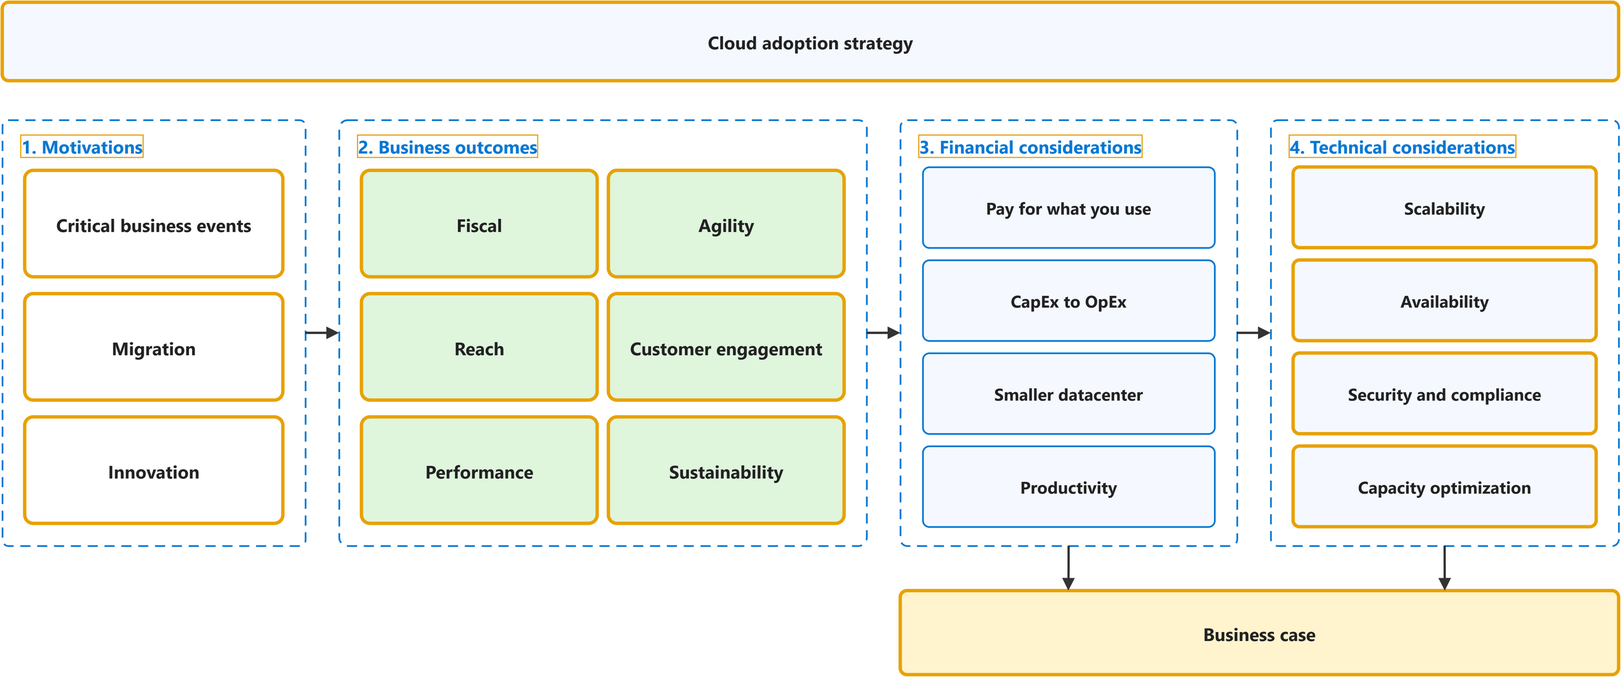
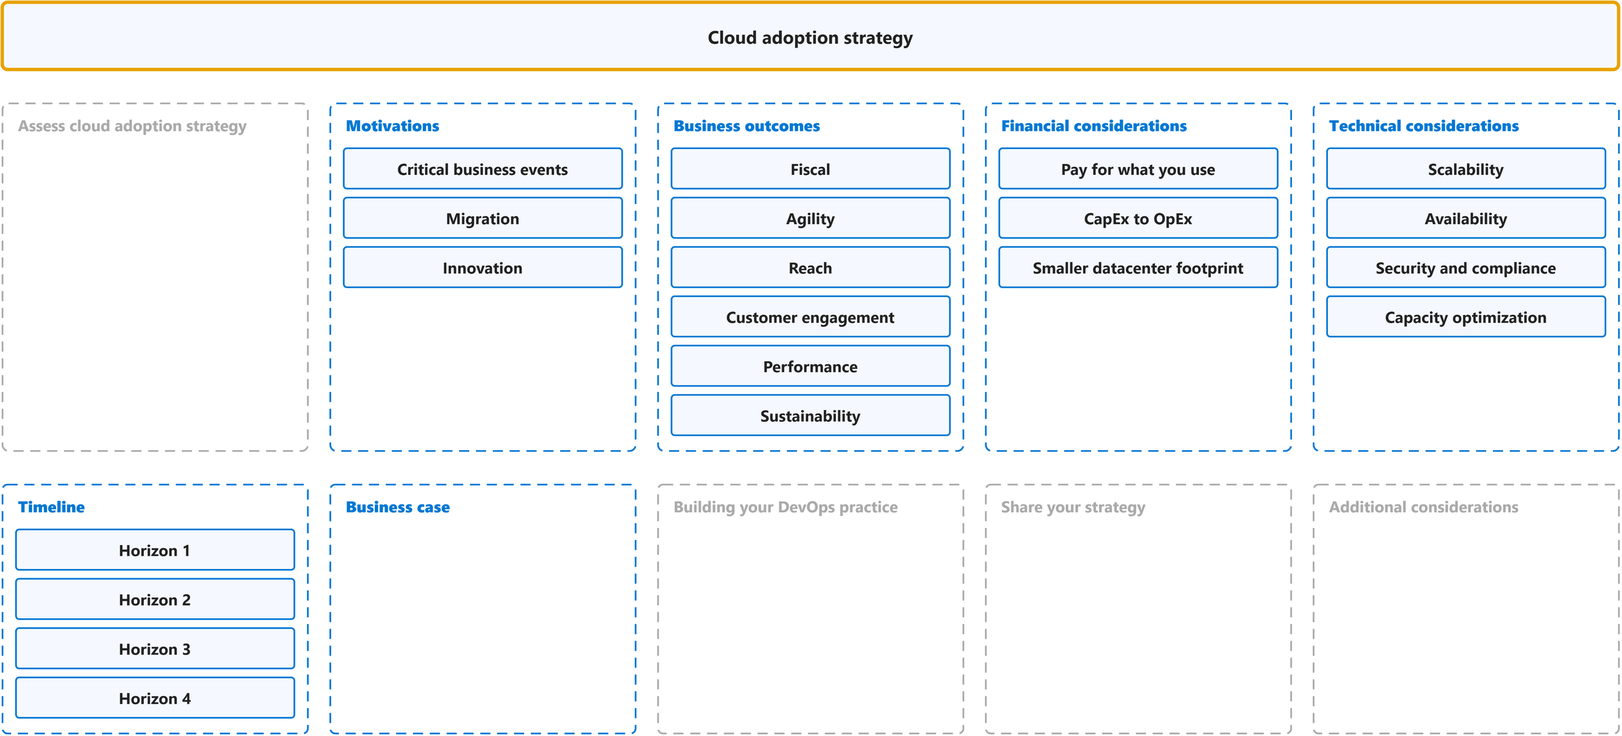
feat(cst8913): CAF page lists every 2022 section per phase, with a figure for each phase and for Migrate; Strategy split into its sections; landing zones redrawn flat

diff --git a/docs/cloud-courses/cst8913/lectures/cloud-adoption-framework-for-azure.md b/docs/cloud-courses/cst8913/lectures/cloud-adoption-framework-for-azure.md
@@ -35,10 +35,28 @@ Study notes on [Microsoft Learn documentation set](https://learn.microsoft.com/e
 | Term | Definition | 中文翻译 | Source |
 |---|---|---|---|
 | **cloud adoption strategy**<br>云采用策略 | "A **cloud adoption strategy** directs how your business adopts cloud technology. It connects **executive intent** to **measurable outcomes** and sets the **standards** that every workload team operates within." | **云采用策略**指导你的企业如何采用云技术。它将**高管意图**与**可衡量的成果**联系起来，并设定每个工作负载团队在其中运作的**标准**。 | [Microsoft, n.d., para. 1](https://learn.microsoft.com/en-us/azure/cloud-adoption-framework/strategy/#:~:text=A%20cloud%20adoption%20strategy%20directs%20how%20your%20business%20adopts) |
+
+### Assess cloud adoption strategy
+
+To be added.
+
+### [Motivations](https://github.com/MicrosoftDocs/cloud-adoption-framework/blob/a5351162040659171fbb4f5674ce36ac9259deb3/docs/strategy/motivations.md)
+
+![Diagram: Motivations](media/cloud-adoption-framework-for-azure-8.png)
+
+| Term | Definition | 中文翻译 | Source |
+|---|---|---|---|
 | **motivation**<br>动机 | "Various **motivations** can drive **business transformations** that are supported by cloud adoption. Several motivations likely apply **at the same time**." | 各种**动机**可以推动由云采用所支持的**业务转型**。可能**同时**有多个动机适用。 | [Microsoft, 2022, October 18, "Motivations" section, para. 1](https://github.com/MicrosoftDocs/cloud-adoption-framework/blob/a5351162040659171fbb4f5674ce36ac9259deb3/docs/strategy/motivations.md#motivations:~:text=Various%20motivations%20can%20drive%20business%20transformations%20that%20are) |
 | **critical business event**<br>关键业务事件 | "When responding to **critical business events** is the **highest priority**, it's important to get started with **migration** early, often in parallel with **strategy and planning efforts**." | 当应对**关键业务事件**是**最高优先级**时，务必尽早开始**迁移**，并且通常与**策略和规划工作**并行进行。 | [Microsoft, 2022, October 18, "Classify your motivations" section, para. 2](https://github.com/MicrosoftDocs/cloud-adoption-framework/blob/a5351162040659171fbb4f5674ce36ac9259deb3/docs/strategy/motivations.md#classify-your-motivations:~:text=When%20responding%20to%20critical%20business%20events%20is%20the%20highest) |
 | **migration motivation**<br>迁移动机 | "The **migration motivations** listed near the top of the **motivations table** are the **most common reasons** for adopting the cloud but not necessarily the **most significant**." | **迁移动机**列于**动机表**的顶部附近，它们是采用云的**最常见原因**，但不一定是**最重要**的原因。 | [Microsoft, 2022, October 18, "Migration" section, para. 1](https://github.com/MicrosoftDocs/cloud-adoption-framework/blob/a5351162040659171fbb4f5674ce36ac9259deb3/docs/strategy/motivations.md#migration:~:text=The%20migration%20motivations%20listed%20near%20the%20top%20of%20the) |
 | **innovation motivation**<br>创新动机 | "Data is the **new commodity**, and **modern applications** are the **supply chain** driving that data into various experiences. In today's business market, it's hard to find a **transformative product or service** that isn't built on top of data, insights, and customer experiences." | 数据是**新的商品**，而**现代应用程序**是将这些数据输送到各种体验中的**供应链**。在当今的商业市场中，很难找到不是建立在数据、见解和客户体验之上的**变革性产品或服务**。 | [Microsoft, 2022, October 18, "Innovation" section, para. 1](https://github.com/MicrosoftDocs/cloud-adoption-framework/blob/a5351162040659171fbb4f5674ce36ac9259deb3/docs/strategy/motivations.md#innovation:~:text=Data%20is%20the%20new%20commodity%2C%20and%20modern%20applications%20are) |
+
+### [Business outcomes](https://github.com/MicrosoftDocs/cloud-adoption-framework/blob/a5351162040659171fbb4f5674ce36ac9259deb3/docs/strategy/business-outcomes/index.md)
+
+![Diagram: Business outcomes](media/cloud-adoption-framework-for-azure-9.png)
+
+| Term | Definition | 中文翻译 | Source |
+|---|---|---|---|
 | **business outcome**<br>业务成果 | "This article series is designed to help customers identify **business outcomes** that are **concise, defined**, and drive **observable results** or change in business performance, supported by a **specific measure**." | 本系列文章旨在帮助客户确定**业务成果**，这些成果应**简洁、明确**，并能推动**可观察的结果**或业务绩效的变化，且有**具体的衡量指标**作为支撑。 | [Microsoft, 2022, October 18, para. 1](https://github.com/MicrosoftDocs/cloud-adoption-framework/blob/a5351162040659171fbb4f5674ce36ac9259deb3/docs/strategy/business-outcomes/index.md#:~:text=This%20article%20series%20is%20designed%20to%20help%20customers%20identify) |
 | **fiscal outcome**<br>财务成果 | "**Financial or fiscal performance** is the **cleanest business outcome** for many business leaders, but **not the only one**." | 对于许多业务领导者来说，**财务或财政绩效**是**最清晰的业务成果**，但并**不是唯一的**成果。 | [Microsoft, 2022, October 18, "Fiscal outcomes" section, para. 1](https://github.com/MicrosoftDocs/cloud-adoption-framework/blob/a5351162040659171fbb4f5674ce36ac9259deb3/docs/strategy/business-outcomes/index.md#fiscal-outcomes:~:text=Financial%20or%20fiscal%20performance%20is%20the%20cleanest%20business%20outcome) |
 | **agility outcome**<br>敏捷成果 | "Today's **fast-changing business environment** places a **premium on time**. The ability to respond to and **drive market change** quickly is the fundamental measure of **business agility**." | 当今**快速变化的商业环境**非常**重视时间**。快速响应并**推动市场变化**的能力，是衡量**业务敏捷性**的基本指标。 | [Microsoft, 2022, October 18, "Agility outcomes" section, para. 1](https://github.com/MicrosoftDocs/cloud-adoption-framework/blob/a5351162040659171fbb4f5674ce36ac9259deb3/docs/strategy/business-outcomes/index.md#agility-outcomes:~:text=Today%27s%20fast%2Dchanging%20business%20environment%20places%20a%20premium%20on%20time) |
@@ -46,13 +64,26 @@ Study notes on [Microsoft Learn documentation set](https://learn.microsoft.com/e
 | **customer engagement outcome**<br>客户互动成果 | "**Social marketplaces** are redefining **winners and losers** at an unheard-of pace. Responding to **user needs** is a key measure of **customer engagement**." | **社交市场**正以前所未有的速度重新定义**赢家和输家**。响应**用户需求**是衡量**客户互动**的关键指标。 | [Microsoft, 2022, October 18, "Customer engagement outcomes" section, para. 1](https://github.com/MicrosoftDocs/cloud-adoption-framework/blob/a5351162040659171fbb4f5674ce36ac9259deb3/docs/strategy/business-outcomes/index.md#customer-engagement-outcomes:~:text=Social%20marketplaces%20are%20redefining%20winners%20and%20losers%20at%20an) |
 | **performance outcome**<br>性能成果 | "**Performance and reliability** are **assumed**. When either falters, **reputation damage** can be painful and **long-lasting**." | **性能和可靠性**被视为**理所当然**。当其中任何一个出现问题时，**声誉损害**可能是痛苦且**长期**的。 | [Microsoft, 2022, October 18, "Performance outcomes" section, para. 1](https://github.com/MicrosoftDocs/cloud-adoption-framework/blob/a5351162040659171fbb4f5674ce36ac9259deb3/docs/strategy/business-outcomes/index.md#performance-outcomes:~:text=Performance%20and%20reliability%20are%20assumed) |
 | **sustainability outcome**<br>可持续性成果 | "**Environmental sustainability** is quickly moving from a "nice to have" function of **Corporate Social Responsibility (CSR**) to a **centerpiece of business strategy**, increasingly **embedded** into everything a company does." | **环境可持续性**正迅速从**企业社会责任（CSR**）中的“锦上添花”功能，转变为**业务战略的核心**，并日益**融入**公司所做的一切。 | [Microsoft, 2022, October 18, "Sustainability outcomes" section, para. 1](https://github.com/MicrosoftDocs/cloud-adoption-framework/blob/a5351162040659171fbb4f5674ce36ac9259deb3/docs/strategy/business-outcomes/index.md#sustainability-outcomes:~:text=Environmental%20sustainability%20is%20quickly%20moving%20from%20a) |
+
+### [Financial considerations](https://github.com/MicrosoftDocs/cloud-adoption-framework/blob/a5351162040659171fbb4f5674ce36ac9259deb3/docs/strategy/financial-considerations/index.md)
+
+![Diagram: Financial considerations](media/cloud-adoption-framework-for-azure-10.png)
+
+| Term | Definition | 中文翻译 | Source |
+|---|---|---|---|
 | **financial considerations**<br>财务考量 | "A **digital transformation** goes hand-in-hand with a **financial transformation**. When you're making the shift to the cloud, there are **financial considerations** around how the cloud will impact your **financial position**, accounting KPIs, and processes..." | **数字化转型**与**财务转型**相辅相成。当你向云转变时，存在一些**财务考量**，涉及云将如何影响你的**财务状况**、会计 KPI 和流程…… | [Microsoft, 2022, October 18, para. 1](https://github.com/MicrosoftDocs/cloud-adoption-framework/blob/a5351162040659171fbb4f5674ce36ac9259deb3/docs/strategy/financial-considerations/index.md#:~:text=A%20digital%20transformation%20goes%20hand%2Din%2Dhand%20with%20a%20financial%20transformation) |
+
+### [Technical considerations](https://github.com/MicrosoftDocs/cloud-adoption-framework/blob/a5351162040659171fbb4f5674ce36ac9259deb3/docs/strategy/technical-considerations/index.md)
+
+![Diagram: Technical considerations](media/cloud-adoption-framework-for-azure-11.png)
+
+| Term | Definition | 中文翻译 | Source |
+|---|---|---|---|
 | **technical considerations**<br>技术考量 | "When you're making the **shift to the cloud**, there are **technical considerations** around how it will help improve how you **manage and maintain** your cloud and workloads." | 当你**向云转变**时，存在一些**技术考量**，涉及它将如何帮助你改进对云和工作负载的**管理与维护**方式。 | [Microsoft, 2022, October 18, para. 1](https://github.com/MicrosoftDocs/cloud-adoption-framework/blob/a5351162040659171fbb4f5674ce36ac9259deb3/docs/strategy/technical-considerations/index.md#:~:text=When%20you%27re%20making%20the%20shift%20to%20the%20cloud%2C%20there) |
 | **scalability**<br>可扩展性 | "**Scalability**, or the ability to **scale out your resources** depending on usage, utilization, and demand, is one of the **foremost technical benefits** of moving to the cloud." | **可扩展性**，即根据使用情况、利用率和需求**横向扩展你的资源**的能力，是迁移到云的**首要技术优势**之一。 | [Microsoft, 2022, October 18, "Scalability" section, para. 1](https://github.com/MicrosoftDocs/cloud-adoption-framework/blob/a5351162040659171fbb4f5674ce36ac9259deb3/docs/strategy/technical-considerations/index.md#scalability:~:text=Scalability%2C%20or%20the%20ability%20to%20scale%20out%20your%20resources%20depending) |
 | **high availability**<br>高可用性 | "**On-premises**, it's more costly to build **highly available infrastructure**. It's **less costly** to architect highly available infrastructure in the cloud." | **在本地**，构建**高可用基础结构**的成本更高。在云中设计高可用基础结构的**成本更低**。 | [Microsoft, 2022, October 18, "Availability" section, para. 1](https://github.com/MicrosoftDocs/cloud-adoption-framework/blob/a5351162040659171fbb4f5674ce36ac9259deb3/docs/strategy/technical-considerations/index.md#availability:~:text=On%2Dpremises%2C%20it%27s%20more%20costly%20to%20build%20highly%20available%20infrastructure) |
 | **security and compliance**<br>安全与合规 | "When it comes to **security and compliance**, Microsoft is continually expanding our **security infrastructure and toolsets** to **keep you on par** with what's transpiring with respect to **security threats on global networks**." | 在**安全与合规**方面，Microsoft 正在不断扩展我们的**安全基础结构和工具集**，让你能够**跟上****全球网络上安全威胁**的动态。 | [Microsoft, 2022, October 18, "Security and compliance" section, para. 1](https://github.com/MicrosoftDocs/cloud-adoption-framework/blob/a5351162040659171fbb4f5674ce36ac9259deb3/docs/strategy/technical-considerations/index.md#security-and-compliance:~:text=When%20it%20comes%20to%20security%20and%20compliance%2C%20Microsoft%20is) |
 | **capacity optimization**<br>容量优化 | "**Capacity optimization**, where you **only pay** for the **resources you utilize** over time, is **another technical benefit** of the cloud." | **容量优化**，即你**只需**为一段时间内**实际使用的资源**付费，是云的**另一项技术优势**。 | [Microsoft, 2022, October 18, "Capacity optimization" section, para. 1](https://github.com/MicrosoftDocs/cloud-adoption-framework/blob/a5351162040659171fbb4f5674ce36ac9259deb3/docs/strategy/technical-considerations/index.md#capacity-optimization:~:text=Capacity%20optimization%2C%20where%20you%20only%20pay%20for%20the) |
-| **business case**<br>商业论证 | "A **business case** provides a view of the **technical and financial timeline** of your environment. Developing a business case includes building a **financial plan** that takes technical considerations into account and aligns with **business outcomes**." | **商业论证**提供了你环境的**技术和财务时间线**视图。制定商业论证包括构建一份**财务计划**，该计划考虑技术考量并与**业务成果**保持一致。 | [Microsoft, 2022, August 5, para. 3](https://github.com/MicrosoftDocs/cloud-adoption-framework/blob/a5351162040659171fbb4f5674ce36ac9259deb3/docs/strategy/cloud-migration-business-case.md#:~:text=A%20business%20case%20provides%20a%20view%20of%20the%20technical) |
 
 ### [Timeline](https://github.com/MicrosoftDocs/cloud-adoption-framework/blob/a5351162040659171fbb4f5674ce36ac9259deb3/docs/strategy/digital-transformation-timeline.md)
 
@@ -66,7 +97,29 @@ Study notes on [Microsoft Learn documentation set](https://learn.microsoft.com/e
 | **Horizon 3 advanced modernization**<br>视野 3：深度现代化 | "With **post-migration** and **operational improvements**, the team will have **sufficient data and cloud skills** to perform **deeper modernization** of complex architectures." | 借助**迁移后**的改进和**运营改进**，团队将拥有**足够的数据和云技能**，对复杂架构执行**更深入的现代化**。 | [Microsoft, 2021, May 1, "Example of a cloud adoption plan with four horizons" section, table, row 3, Objective](https://github.com/MicrosoftDocs/cloud-adoption-framework/blob/a5351162040659171fbb4f5674ce36ac9259deb3/docs/strategy/digital-transformation-timeline.md#example-of-a-cloud-adoption-plan-with-four-horizons:~:text=With%20post%2Dmigration%20and%20operational%20improvements%2C%20the%20team%20will%20have) |
 | **Horizon 4 innovation and growth**<br>视野 4：创新与增长 | "Redirect capital reduction from **datacenter exits** and **new skills** in central IT to focus on **accelerating continued innovation**." | 将**退出数据中心**带来的资本削减和中央 IT 部门的**新技能**重新调配，以专注于**加速持续创新**。 | [Microsoft, 2021, May 1, "Example of a cloud adoption plan with four horizons" section, table, row 4, Objective](https://github.com/MicrosoftDocs/cloud-adoption-framework/blob/a5351162040659171fbb4f5674ce36ac9259deb3/docs/strategy/digital-transformation-timeline.md#example-of-a-cloud-adoption-plan-with-four-horizons:~:text=Redirect%20capital%20reduction%20from%20datacenter%20exits%20and%20new%20skills%20in) |
 
-## Plan
+### [Business case](https://github.com/MicrosoftDocs/cloud-adoption-framework/blob/a5351162040659171fbb4f5674ce36ac9259deb3/docs/strategy/cloud-migration-business-case.md)
+
+![Diagram: Business case](media/cloud-adoption-framework-for-azure-12.png)
+
+| Term | Definition | 中文翻译 | Source |
+|---|---|---|---|
+| **business case**<br>商业论证 | "A **business case** provides a view of the **technical and financial timeline** of your environment. Developing a business case includes building a **financial plan** that takes technical considerations into account and aligns with **business outcomes**." | **商业论证**提供了你环境的**技术和财务时间线**视图。制定商业论证包括构建一份**财务计划**，该计划考虑技术考量并与**业务成果**保持一致。 | [Microsoft, 2022, August 5, para. 3](https://github.com/MicrosoftDocs/cloud-adoption-framework/blob/a5351162040659171fbb4f5674ce36ac9259deb3/docs/strategy/cloud-migration-business-case.md#:~:text=A%20business%20case%20provides%20a%20view%20of%20the%20technical) |
+
+### Building your DevOps practice
+
+To be added.
+
+### Share your strategy
+
+To be added.
+
+### Additional considerations
+
+To be added.
+
+## [Plan](https://github.com/MicrosoftDocs/cloud-adoption-framework/blob/a5351162040659171fbb4f5674ce36ac9259deb3/docs/plan/index.md)
+
+![Diagram: Plan](media/cloud-adoption-framework-for-azure-14.png)
 
 ### [Rationalization](https://github.com/MicrosoftDocs/cloud-adoption-framework/blob/e29e30c4ebd52d8446d00f5dfdee5742328c2c11/docs/digital-estate/5-rs-of-rationalization.md)
 
@@ -114,7 +167,37 @@ Study notes on [Microsoft Learn documentation set](https://learn.microsoft.com/e
 | **cloud adoption team**<br>云采用团队 | "The nucleus of all **cloud adoption efforts** is the **cloud adoption team**. This team drives the **technical changes** that enable adoption." | 所有**云采用工作**的核心是**云采用团队**。该团队推动实现采用的**技术变革**。 | [Microsoft, n.d., "Cloud adoption team only" section, para. 1](https://learn.microsoft.com/en-us/azure/cloud-adoption-framework/organize/organization-structures#cloud-adoption-team-only:~:text=The%20nucleus%20of%20all%20cloud%20adoption%20efforts%20is%20the) |
 | **cloud governance team**<br>云治理团队 | "...a **cloud governance team** is dedicated to ensuring **excellence** in the solutions that are adopted. The cloud governance team is **accountable** for **platform maturity**, platform operations, governance, and automation." | ……**云治理团队**致力于确保所采用解决方案的**卓越**品质。云治理团队**负责****平台成熟度**、平台运维、治理和自动化。 | [Microsoft, n.d., "Best practice: minimum viable product (MVP)" section, bullet 2](https://learn.microsoft.com/en-us/azure/cloud-adoption-framework/organize/organization-structures#best-practice-minimum-viable-product-mvp:~:text=Cloud%20governance%20team%3A%20To%20balance%20the%20cloud%20adoption%20team) |
 
-## Ready
+### Skills readiness plan
+
+To be added.
+
+### Cloud adoption plan
+
+To be added.
+
+### Best practices
+
+To be added.
+
+### Strategic Migration Assessment and Readiness Tool (SMART)
+
+To be added.
+
+### Sustainability considerations
+
+To be added.
+
+## [Ready](https://github.com/MicrosoftDocs/cloud-adoption-framework/blob/a5351162040659171fbb4f5674ce36ac9259deb3/docs/ready/index.md)
+
+![Diagram: Ready](media/cloud-adoption-framework-for-azure-15.png)
+
+### Azure setup guide
+
+To be added.
+
+### Operating model
+
+To be added.
 
 ### [Landing zones](https://learn.microsoft.com/en-us/azure/cloud-adoption-framework/ready/landing-zone/)
 
@@ -124,18 +207,30 @@ Study notes on [Microsoft Learn documentation set](https://learn.microsoft.com/e
 |---|---|---|---|
 | **landing zone**<br>落地区 | "An **Azure landing zone** is a proven and flexible **architecture** for governing, securing, and scaling a **multi-subscription Azure environment**." | **Azure 落地区**是一种经过验证且灵活的**架构**，用于治理、保护和扩展**多订阅 Azure 环境**。 | [Microsoft, n.d., para. 1, sentence 2](https://learn.microsoft.com/en-us/azure/cloud-adoption-framework/ready/landing-zone/#:~:text=An%20Azure%20landing%20zone%20is%20a%20proven%20and%20flexible%20architecture) |
 | **platform landing zone**<br>平台落地区 | "The **centralized foundation** that establishes **governance**, security, and **shared resources** for all your Azure workloads." | **集中式基础**，为所有 Azure 工作负载建立**治理**、安全和**共享资源**。 | [Microsoft, n.d., bullet 1](https://learn.microsoft.com/en-us/azure/cloud-adoption-framework/ready/landing-zone/#:~:text=The%20centralized%20foundation%20that%20establishes%20governance%2C%20security%2C%20and%20shared) |
-| **management group hierarchy**<br>管理组层级 | "The **management group hierarchy** provides the **governance structure** for the Azure environment. It organizes all of your **Azure subscriptions** and applies **governance standards** to those subscriptions." | **管理组层级**为 Azure 环境提供**治理结构**。它组织你的所有 **Azure 订阅**，并对这些订阅应用**治理标准**。 | [Microsoft, n.d., "Platform landing zone" section, bullet 1](https://learn.microsoft.com/en-us/azure/cloud-adoption-framework/ready/landing-zone/#platform-landing-zone:~:text=The%20management%20group%20hierarchy%20provides%20the%20governance%20structure%20for%20the) |
 | **workload landing zone**<br>工作负载落地区 | "The environments where **workload teams** **deploy and operate** **workload resources** within the guardrails of the **platform landing zone**." | **工作负载团队**在其中**部署和运营****工作负载资源**的环境，位于**平台落地区**的护栏之内。 | [Microsoft, n.d., bullet 2](https://learn.microsoft.com/en-us/azure/cloud-adoption-framework/ready/landing-zone/#:~:text=The%20environments%20where%20workload%20teams%20deploy%20and%20operate%20workload%20resources) |
+| **management group hierarchy**<br>管理组层级 | "The **management group hierarchy** provides the **governance structure** for the Azure environment. It organizes all of your **Azure subscriptions** and applies **governance standards** to those subscriptions." | **管理组层级**为 Azure 环境提供**治理结构**。它组织你的所有 **Azure 订阅**，并对这些订阅应用**治理标准**。 | [Microsoft, n.d., "Platform landing zone" section, bullet 1](https://learn.microsoft.com/en-us/azure/cloud-adoption-framework/ready/landing-zone/#platform-landing-zone:~:text=The%20management%20group%20hierarchy%20provides%20the%20governance%20structure%20for%20the) |
 | **subscription**<br>订阅 | "In Azure, **subscriptions** are a **unit of management, billing, and scale**. Subscriptions let you organize **resource groups** and **control billing separately from access**." | 在 Azure 中，**订阅**是**管理、计费和缩放的单位**。订阅让你能够组织**资源组**，并**将计费与访问分开控制**。 | [Microsoft, n.d., "Azure subscriptions" section, para. 1](https://learn.microsoft.com/en-us/training/modules/describe-core-architectural-components-of-azure/6-describe-azure-management-infrastructure#azure-subscriptions:~:text=In%20Azure%2C%20subscriptions%20are%20a%20unit%20of%20management%2C%20billing) |
 | **management**<br>管理（运维） | "This **design area** establishes a **foundation for operations management** across your Azure, hybrid, or **multicloud environments**." | 此**设计领域****为运营管理奠定基础**，范围涵盖你的 Azure、混合或**多云环境**。 | [Microsoft, n.d., para. 1](https://learn.microsoft.com/en-us/azure/cloud-adoption-framework/ready/landing-zone/design-area/management#:~:text=This%20design%20area%20establishes%20a%20foundation%20for%20operations%20management) |
 | **governance**<br>治理 | "Use **Azure governance** to establish the **tooling** that you need to support cloud governance, **compliance auditing**, and **automated guardrails**." | 使用 **Azure 治理**来建立所需的**工具**，以支持云治理、**合规性审核**和**自动化防护措施**。 | [Microsoft, n.d., para. 1](https://learn.microsoft.com/en-us/azure/cloud-adoption-framework/ready/landing-zone/design-area/governance#:~:text=Use%20Azure%20governance%20to%20establish%20the%20tooling%20that%20you) |
 | **accelerator**<br>加速器 | "Microsoft-provided **accelerators** for both **platform landing zone** and workload landing zone scenarios use **infrastructure as code** to deploy **Azure environments** based on recommended practices." | Microsoft 提供的**加速器**适用于**平台落地区**和工作负载落地区两种场景，它们使用**基础结构即代码**来部署 **Azure 环境**，所依据的是建议做法。 | [Microsoft, n.d., bullet 3](https://learn.microsoft.com/en-us/azure/cloud-adoption-framework/ready/landing-zone/#:~:text=Microsoft%2Dprovided%20accelerators%20for%20both%20platform%20landing%20zone%20and%20workload) |
 
-## Adopt
+## [Adopt](https://github.com/MicrosoftDocs/cloud-adoption-framework/blob/a5351162040659171fbb4f5674ce36ac9259deb3/docs/adopt/index.md)
 
-### Migrate
+![Diagram: Adopt](media/cloud-adoption-framework-for-azure-13.png)
 
-To be added. For now, see [What is Azure Migrate?](what-is-azure-migrate.md).
+### Cloud adoption journey
+
+To be added.
+
+### Migrate or modernize first?
+
+To be added.
+
+### [Migrate](https://github.com/MicrosoftDocs/cloud-adoption-framework/blob/a5351162040659171fbb4f5674ce36ac9259deb3/docs/migrate/index.md)
+
+![Diagram: Migrate](media/cloud-adoption-framework-for-azure-17.png)
+
+See also [What is Azure Migrate?](what-is-azure-migrate.md).
 
 ### Modernize
 
@@ -145,7 +240,13 @@ To be added.
 
 To be added.
 
-## Ongoing
+### Relocate
+
+To be added.
+
+## [Ongoing](https://github.com/MicrosoftDocs/cloud-adoption-framework/blob/a5351162040659171fbb4f5674ce36ac9259deb3/docs/overview.md)
+
+![Diagram: Ongoing](media/cloud-adoption-framework-for-azure-16.png)
 
 ### Govern
 

diff --git a/docs/cloud-courses/cst8913/index.md b/docs/cloud-courses/cst8913/index.md
@@ -16,11 +16,11 @@ Every week fits one stage of the Cloud Adoption Framework journey: strategy, pla
 
 | Stage | Lecture sections | Labs |
 |---|---|---|
-| The whole journey | [5. Overview](lectures/cloud-adoption-framework-for-azure.md#overview) | None |
-| 1. Strategy: why move | [5. Strategy](lectures/cloud-adoption-framework-for-azure.md#strategy)<br>[5. Timeline](lectures/cloud-adoption-framework-for-azure.md#timeline) | [Levi Strauss & Co. migration case study (lab 2)](labs/levi-strauss-co-migration-case-study.md) |
-| 2. Plan: what to move, how | [5. Rationalization](lectures/cloud-adoption-framework-for-azure.md#rationalization)<br>[5. Migration strategies](lectures/cloud-adoption-framework-for-azure.md#migration-strategies)<br>[5. Team responsibilities](lectures/cloud-adoption-framework-for-azure.md#team-responsibilities)<br>[6. Decide, plan, execute](lectures/what-is-azure-migrate.md#decide-plan-execute)<br>[8. Evaluate the digital estate](lectures/prepare-for-cloud-adoption-with-a-data-driven-plan.md#evaluate-the-digital-estate)<br>[8. Readiness and suitability analysis](lectures/prepare-for-cloud-adoption-with-a-data-driven-plan.md#readiness-and-suitability-analysis)<br>[8. Prioritize workloads and finalize the migration plan](lectures/prepare-for-cloud-adoption-with-a-data-driven-plan.md#prioritize-workloads-and-finalize-the-migration-plan) | [Levi Strauss & Co. migration case study (lab 2)](labs/levi-strauss-co-migration-case-study.md)<br>[Discovery and assessment (lab 4)](labs/discovery-and-assessment.md) |
-| 3. Ready: target environment | [5. Landing zones](lectures/cloud-adoption-framework-for-azure.md#landing-zones)<br>[7. Architecture](lectures/windows-n-tier-application-on-azure.md#architecture)<br>[7. Networking and load balancing](lectures/windows-n-tier-application-on-azure.md#networking-and-load-balancing)<br>[7. Availability](lectures/windows-n-tier-application-on-azure.md#availability) | [IaaS and PaaS architecture (lab 3)](labs/iaas-and-paas-architecture.md) |
-| 4. Migrate: rehost | [9. Rehost](lectures/overview-of-application-migration-examples-for-azure.md#rehost)<br>[10. Private clouds, clusters and hosts](lectures/what-is-azure-vmware-solution.md#private-clouds-clusters-and-hosts) | [Rehosting to Azure (lab 5)](labs/rehosting-to-azure.md) |
+| The whole journey | [5. Overview](lectures/cloud-adoption-framework-for-azure.md#overview)<br>[5. Ongoing](lectures/cloud-adoption-framework-for-azure.md#ongoing) | None |
+| 1. Strategy: why move | [5. Strategy](lectures/cloud-adoption-framework-for-azure.md#strategy)<br>[5. Motivations](lectures/cloud-adoption-framework-for-azure.md#motivations)<br>[5. Business outcomes](lectures/cloud-adoption-framework-for-azure.md#business-outcomes)<br>[5. Financial considerations](lectures/cloud-adoption-framework-for-azure.md#financial-considerations)<br>[5. Technical considerations](lectures/cloud-adoption-framework-for-azure.md#technical-considerations)<br>[5. Timeline](lectures/cloud-adoption-framework-for-azure.md#timeline)<br>[5. Business case](lectures/cloud-adoption-framework-for-azure.md#business-case) | [Levi Strauss & Co. migration case study (lab 2)](labs/levi-strauss-co-migration-case-study.md) |
+| 2. Plan: what to move, how | [5. Plan](lectures/cloud-adoption-framework-for-azure.md#plan)<br>[5. Rationalization](lectures/cloud-adoption-framework-for-azure.md#rationalization)<br>[5. Migration strategies](lectures/cloud-adoption-framework-for-azure.md#migration-strategies)<br>[5. Team responsibilities](lectures/cloud-adoption-framework-for-azure.md#team-responsibilities)<br>[6. Decide, plan, execute](lectures/what-is-azure-migrate.md#decide-plan-execute)<br>[8. Evaluate the digital estate](lectures/prepare-for-cloud-adoption-with-a-data-driven-plan.md#evaluate-the-digital-estate)<br>[8. Readiness and suitability analysis](lectures/prepare-for-cloud-adoption-with-a-data-driven-plan.md#readiness-and-suitability-analysis)<br>[8. Prioritize workloads and finalize the migration plan](lectures/prepare-for-cloud-adoption-with-a-data-driven-plan.md#prioritize-workloads-and-finalize-the-migration-plan) | [Levi Strauss & Co. migration case study (lab 2)](labs/levi-strauss-co-migration-case-study.md)<br>[Discovery and assessment (lab 4)](labs/discovery-and-assessment.md) |
+| 3. Ready: target environment | [5. Ready](lectures/cloud-adoption-framework-for-azure.md#ready)<br>[5. Landing zones](lectures/cloud-adoption-framework-for-azure.md#landing-zones)<br>[7. Architecture](lectures/windows-n-tier-application-on-azure.md#architecture)<br>[7. Networking and load balancing](lectures/windows-n-tier-application-on-azure.md#networking-and-load-balancing)<br>[7. Availability](lectures/windows-n-tier-application-on-azure.md#availability) | [IaaS and PaaS architecture (lab 3)](labs/iaas-and-paas-architecture.md) |
+| 4. Migrate: rehost | [5. Adopt](lectures/cloud-adoption-framework-for-azure.md#adopt)<br>[5. Migrate](lectures/cloud-adoption-framework-for-azure.md#migrate)<br>[9. Rehost](lectures/overview-of-application-migration-examples-for-azure.md#rehost)<br>[10. Private clouds, clusters and hosts](lectures/what-is-azure-vmware-solution.md#private-clouds-clusters-and-hosts) | [Rehosting to Azure (lab 5)](labs/rehosting-to-azure.md) |
 | 4. Migrate: refactor | [9. Refactor](lectures/overview-of-application-migration-examples-for-azure.md#refactor)<br>[11. Assess a web app with the Azure App Service Migration Assistant](lectures/migrate-an-on-premises-web-application-to-azure-app-service.md#assess-a-web-app-with-the-azure-app-service-migration-assistant)<br>[11. Migrate a web app with the Azure App Service Migration Assistant](lectures/migrate-an-on-premises-web-application-to-azure-app-service.md#migrate-a-web-app-with-the-azure-app-service-migration-assistant) | None |
 | Cloud computing basics | [3. What is cloud computing](lectures/describe-cloud-computing.md#what-is-cloud-computing)<br>[3. Describe the shared responsibility model](lectures/describe-cloud-computing.md#describe-the-shared-responsibility-model)<br>[3. Define cloud models](lectures/describe-cloud-computing.md#define-cloud-models)<br>[3. Describe the consumption-based model](lectures/describe-cloud-computing.md#describe-the-consumption-based-model)<br>[4. Describe Infrastructure as a Service](lectures/describe-cloud-service-types.md#describe-infrastructure-as-a-service)<br>[4. Describe Platform as a Service](lectures/describe-cloud-service-types.md#describe-platform-as-a-service)<br>[4. Describe Software as a Service](lectures/describe-cloud-service-types.md#describe-software-as-a-service) | [Cloud resource comparison (lab 6)](labs/cloud-resource-comparison.md) |
 | Tools | [1. What is Git?](lectures/pro-git-getting-started.md#what-is-git)<br>[2. About pull requests and forks](lectures/github-docs-collaborating.md#about-pull-requests-and-forks) | [Git, GitHub and Markdown (lab 1)](labs/git-github-and-markdown.md) |

diff --git a/docs/cloud-courses/cst8913/README.md b/docs/cloud-courses/cst8913/README.md
@@ -14,7 +14,7 @@ All three are generated by `build_site_pages.py`, which also writes the CST8913 
 ## Rules
 
 1. **One page per source.** Each page in `lectures/` is one row of the table below: its file name, title (H1) and source are fixed there. `index.md` is the overview (study by week: lab topic, concepts, pages); no other page is allowed.
-2. **Sections (H2) are parts of that source.** Every H2 is one of the parts listed for its page, word for word, in that order: a unit, a page or a section heading of the source. Each H2 links its part. A page may leave a part out, but may not add one. Part names may be short forms of the source headings. The Cloud Adoption Framework page follows the framework's own overview figure (decided 2026-10-20): its H2s are the figure's boxes (Overview, Strategy, Plan, Ready, Adopt, Ongoing, Azure Architecture Center, Azure Well-Architected Framework) and the other parts sit under their phase as H3 (the spec's `phase`). A part the course has not covered yet stays as a placeholder ("To be added."), with no link, figure or table.
+2. **Sections (H2) are parts of that source.** Every H2 is one of the parts listed for its page, word for word, in that order: a unit, a page or a section heading of the source. Each H2 links its part. A page may leave a part out, but may not add one. Part names may be short forms of the source headings. The Cloud Adoption Framework page follows the framework's own overview figure (decided 2026-10-20): its H2s are the figure's boxes (Overview, Strategy, Plan, Ready, Adopt, Ongoing, Azure Architecture Center, Azure Well-Architected Framework) and the other parts sit under their phase as H3 (the spec's `phase`). Each phase lists every first-level section of the 2022 table of contents (commit a5351162); the ones the course has not covered are placeholders. A part the course has not covered yet stays as a placeholder ("To be added."), with no link, figure or table.
 3. **One figure per section.** Every part section has exactly one figure, drawn by us in draw.io (no copied images, so terms can be marked).
 4. **Key terms are framed on the figure.** A term worth learning is on the figure with a thick amber frame.
 5. **The table holds only framed terms.** Each section's table lists exactly the framed terms of its figure, in figure order. A term that is not on the figure is not in the table. Each term is defined on one page only, in the first section where it is framed.
@@ -43,7 +43,7 @@ All three are generated by `build_site_pages.py`, which also writes the CST8913 
 |---|---|
 | `describe-cloud-computing.md` | What is cloud computing; Describe the shared responsibility model; Define cloud models; Describe the consumption-based model |
 | `describe-cloud-service-types.md` | Describe Infrastructure as a Service; Describe Platform as a Service; Describe Software as a Service |
-| `cloud-adoption-framework-for-azure.md` | Overview; Strategy; Timeline; Rationalization; Migration strategies; Team responsibilities; Landing zones; Migrate; Modernize; Innovate; Govern; Secure; Manage; Azure Architecture Center; Azure Well-Architected Framework |
+| `cloud-adoption-framework-for-azure.md` | Overview; Strategy; Assess cloud adoption strategy; Motivations; Business outcomes; Financial considerations; Technical considerations; Timeline; Business case; Building your DevOps practice; Share your strategy; Additional considerations; Plan; Rationalization; Migration strategies; Team responsibilities; Skills readiness plan; Cloud adoption plan; Best practices; Strategic Migration Assessment and Readiness Tool (SMART); Sustainability considerations; Ready; Azure setup guide; Operating model; Landing zones; Adopt; Cloud adoption journey; Migrate or modernize first?; Migrate; Modernize; Innovate; Relocate; Ongoing; Govern; Secure; Manage; Azure Architecture Center; Azure Well-Architected Framework |
 | `windows-n-tier-application-on-azure.md` | Architecture; Networking and load balancing; Availability |
 | `what-is-azure-migrate.md` | Decide, plan, execute |
 | `prepare-for-cloud-adoption-with-a-data-driven-plan.md` | Evaluate the digital estate; Readiness and suitability analysis; Prioritize workloads and finalize the migration plan |
